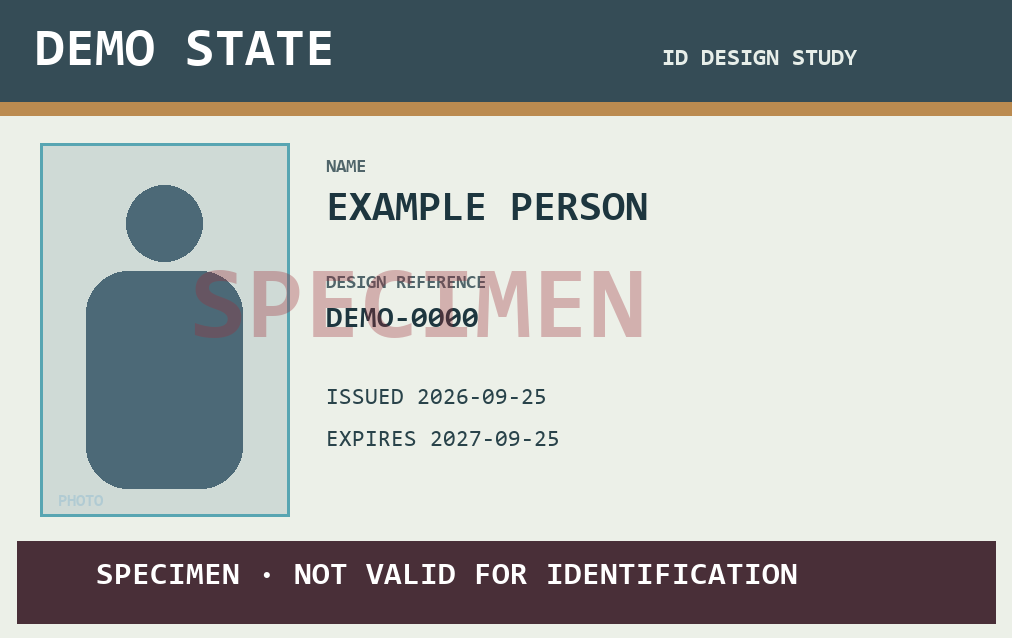
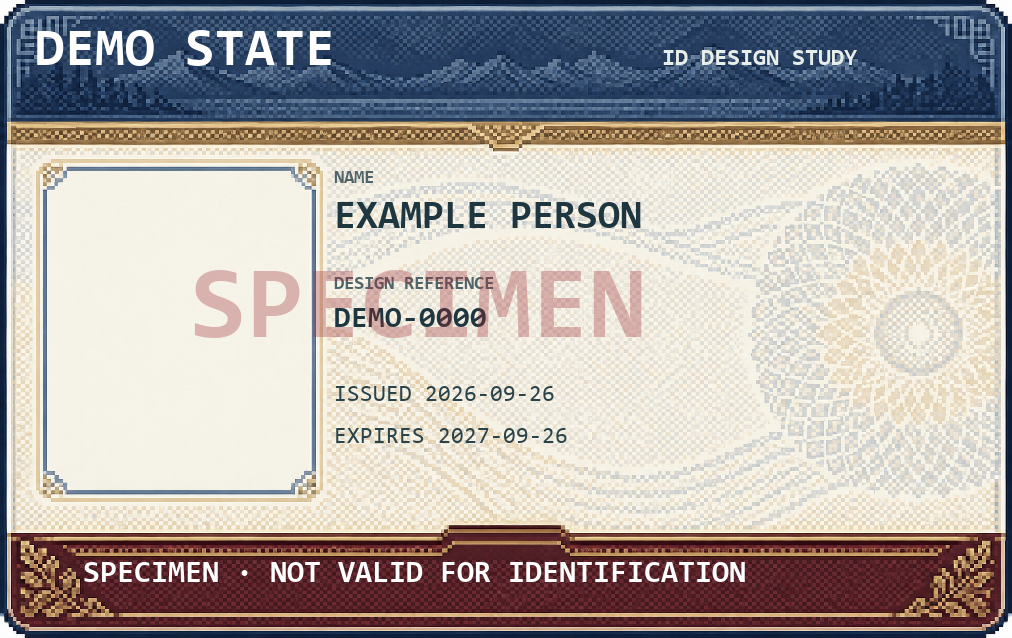
Replace specimen card drawing with GPT pixel art

diff --git a/retro-tools/badge_templates.py b/retro-tools/badge_templates.py
@@ -145,24 +145,6 @@ def _nightcode_card(data: dict, assets: Path) -> Image.Image:
     return Image.alpha_composite(image.convert('RGBA'), overlay).convert('RGB')
 
 
-def _photo(canvas: Image.Image, photo_path: str, box: tuple[int, int, int, int], fill: str):
-    draw = ImageDraw.Draw(canvas)
-    draw.rectangle(box, fill=fill, outline='#58a5b2', width=3)
-    if photo_path and Path(photo_path).is_file():
-        try:
-            with Image.open(photo_path) as src:
-                fitted = ImageOps.fit(src.convert('RGB'), (box[2] - box[0] - 8, box[3] - box[1] - 8),
-                                      method=Image.Resampling.LANCZOS, centering=(0.5, 0.3))
-            canvas.paste(fitted, (box[0] + 4, box[1] + 4))
-            return
-        except (OSError, ValueError):
-            pass
-    cx = (box[0] + box[2]) // 2
-    draw.ellipse((cx - 38, box[1] + 42, cx + 38, box[1] + 118), fill='#4c6977')
-    draw.rounded_rectangle((cx - 78, box[1] + 128, cx + 78, box[3] - 28), radius=42, fill='#4c6977')
-    draw.text((box[0] + 18, box[3] - 23), 'PHOTO', fill='#b1cbd3', font=font(17, True))
-
-
 def _text(draw, xy, value, *, size, fill, bold=False, max_width=None):
     value = str(value)
     face = font(size, bold)
@@ -180,22 +162,27 @@ def render(record: dict, assets: Path) -> Image.Image:
     elif template == 'NightCode in-world':
         image = _nightcode_card(data, assets)
     else:
-        image = Image.new('RGB', SIZE, '#ecf0e8')
+        with Image.open(assets / 'demo-state-gpt-v2.png') as source:
+            image = source.convert('RGB').resize(SIZE, Image.Resampling.NEAREST)
+        if data['photo'] and Path(data['photo']).is_file():
+            try:
+                with Image.open(data['photo']) as source:
+                    portrait = ImageOps.fit(source.convert('RGB'), (264, 316),
+                                            method=Image.Resampling.LANCZOS, centering=(0.5, 0.3))
+                image.paste(portrait, (40, 168))
+            except (OSError, ValueError):
+                pass
         d = ImageDraw.Draw(image)
-        d.rectangle((0, 0, 1012, 102), fill='#354c56')
-        d.rectangle((0, 102, 1012, 115), fill='#bb8b50')
         _text(d, (35, 24), 'DEMO STATE', size=54, fill='#ffffff', bold=True)
         _text(d, (662, 47), 'ID DESIGN STUDY', size=24, fill='#e7eee9', bold=True)
-        _photo(image, data['photo'], (40, 143, 289, 516), '#cfdad6')
-        _text(d, (326, 157), 'NAME', size=19, fill='#50656a', bold=True)
-        _text(d, (326, 188), data['name'].upper(), size=42, fill='#1d363f', bold=True, max_width=637)
-        _text(d, (326, 273), 'DESIGN REFERENCE', size=19, fill='#50656a', bold=True)
-        _text(d, (326, 304), data['employee_id'], size=30, fill='#1d363f', bold=True)
-        _text(d, (326, 386), f"ISSUED {data['issued'] or '—'}", size=23, fill='#29434a')
-        _text(d, (326, 428), f"EXPIRES {data['expires'] or '—'}", size=23, fill='#29434a')
-        d.rectangle((17, 541, 995, 623), fill='#492f38')
-        _text(d, (96, 560), 'SPECIMEN · NOT VALID FOR IDENTIFICATION',
-              size=32, fill='#ffffff', bold=True)
+        _text(d, (334, 168), 'NAME', size=19, fill='#50656a', bold=True)
+        _text(d, (334, 198), data['name'].upper(), size=40, fill='#1d363f', bold=True, max_width=620)
+        _text(d, (334, 274), 'DESIGN REFERENCE', size=19, fill='#50656a', bold=True)
+        _text(d, (334, 304), data['employee_id'], size=30, fill='#1d363f', bold=True)
+        _text(d, (334, 383), f"ISSUED {data['issued'] or '—'}", size=23, fill='#29434a')
+        _text(d, (334, 425), f"EXPIRES {data['expires'] or '—'}", size=23, fill='#29434a')
+        _text(d, (83, 558), 'SPECIMEN · NOT VALID FOR IDENTIFICATION',
+              size=31, fill='#ffffff', bold=True)
         overlay = Image.new('RGBA', SIZE)
         mark = ImageDraw.Draw(overlay)
         mark.text((190, 260), 'SPECIMEN', fill=(157, 44, 54, 83), font=font(103, True))

diff --git a/retro-tools/README.md b/retro-tools/README.md
@@ -23,6 +23,6 @@ Both apps store preferences in `%LOCALAPPDATA%\RetroTools`. Do not put secrets i
 
 ## Artwork
 
-The mascots, Genesis-era character portraits, Disk Dude branding, and disc/badge/folder/lock/game icons are SpriteCook exports in `assets/spritecook/`. Both badge plates, `assets/nightcode-badge-gpt-v2.png` and `assets/allied-staff-gpt-v2.png`, are GPT-generated 16-bit artwork; Netcon layers editable text, the official Allied Universal logo, and optional photos over them. The Netcon emblem and wide marquee are the user-supplied images in `assets/user-provided/`; they drive Netcon's window icon and live header. `make_assets.py` installs the approved SpriteCook and supplied files into `assets/`, makes Windows icons, and updates `spritecook-assets.json` with source IDs and hashes. Running it again preserves the badge plates and supplied Netcon branding.
+The mascots, Genesis-era character portraits, Disk Dude branding, and disc/badge/folder/lock/game icons are SpriteCook exports in `assets/spritecook/`. All three badge plates, `assets/nightcode-badge-gpt-v2.png`, `assets/allied-staff-gpt-v2.png`, and `assets/demo-state-gpt-v2.png`, are GPT-generated 16-bit artwork; Netcon layers editable text, the official Allied Universal logo, and optional photos over them. The Netcon emblem and wide marquee are the user-supplied images in `assets/user-provided/`; they drive Netcon's window icon and live header. `make_assets.py` installs the approved SpriteCook and supplied files into `assets/`, makes Windows icons, and updates `spritecook-assets.json` with source IDs and hashes. Running it again preserves the badge plates and supplied Netcon branding.
 
 Disk Dude uses its dark SpriteCook banner, logo, portrait, and extracted button frame. Netcon uses the supplied chrome and neon branding with matching tabs, panels, footer, portrait, and generated controls. Text and interactive controls remain native for legibility. The `*-ui-concept.png` files are visual design references, not screenshots of currently implemented features. The complete extracted UI sheets are included for further expansion of the apps.
